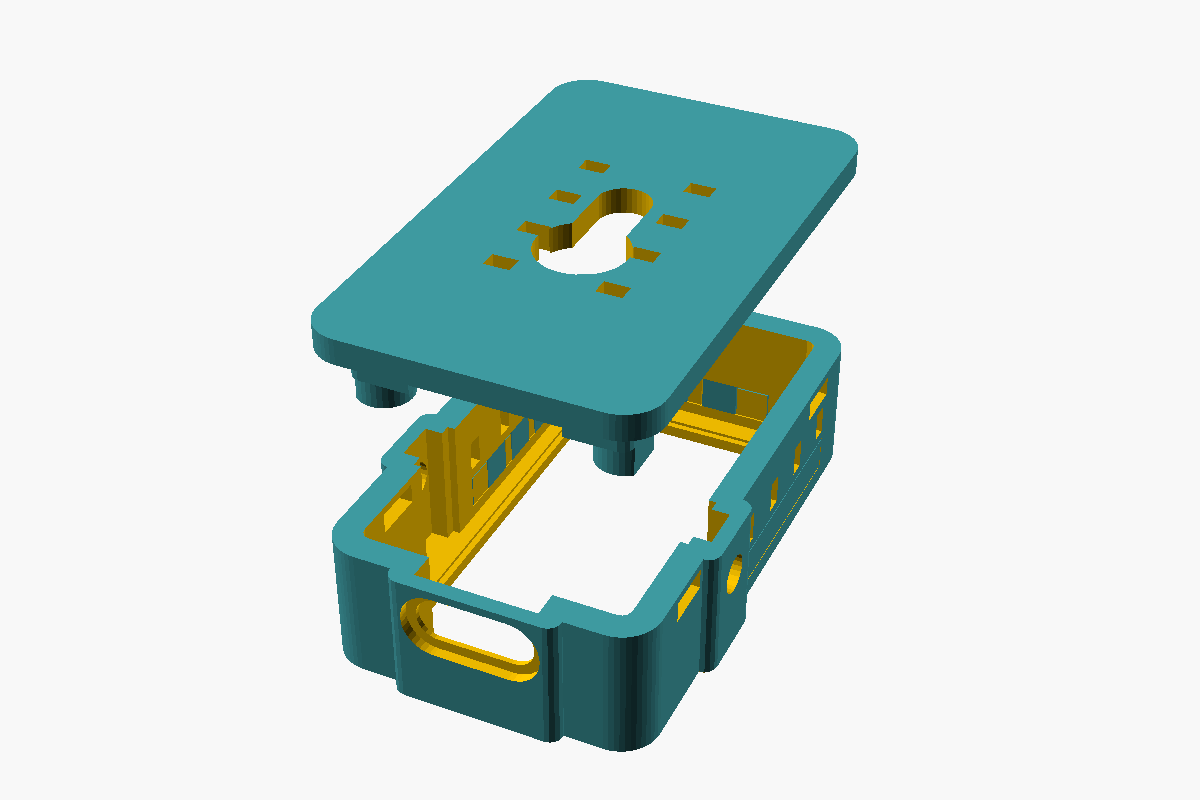
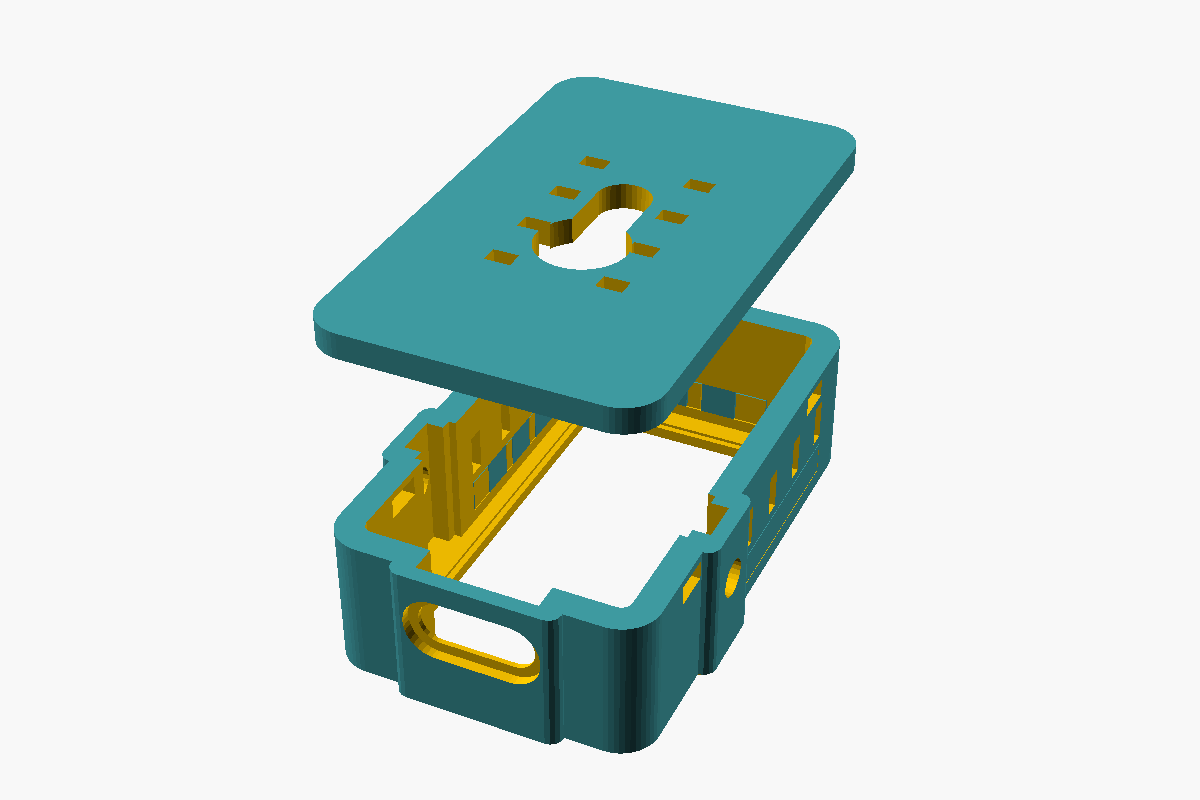
C3 pocket case: as-shipped "pillars" build + gen_3mf.py c3 plate
The board Waveshare actually ships carries the brass M2 corner pillars
with headers NOT soldered — a combination the case didn't have. New
headers="pillars" build (now the default): cavity deepens just enough
for the pillars (brass_h + 0.8), press bosses land on the flat pillar
tops, and the lid skirt is notched around each pillar.

Fit findings from the assembled checks against modeled pillars, all
fixed and now asserted:
- hole_ix_usb corrected 1.27 → 2.00 (the drawing's 17.78 is the header
  column span, 7 x 2.54, not the hole span; at 1.27 a Ø3.5 pillar
  would overhang the PCB edge into the bezel wall — asserted).
- snap nubs slimmed (4.0 → 3.2) and pulled in (13.0 → 12.4): at the
  old numbers a nub grazed the USB-end pillar's flank by 0.03 mm³.
- pillar notches hulled radially outward: a bare tangent circle left a
  ~0.3 mm crescent blade of skirt at each corner.
- USB skirt relief widened +1 mm/side to meet the notch circles: a
  0.05 mm whisker survived between the two cuts, found by slicing the
  STL (admesh saw a watertight, connected, fine-looking part).

gen_3mf.py grows a "c3" set: bezel + fused white band (band_clear=0)
and the yellow lid on one plate, slots 1 black / 2 yellow / 3 white
(the stick's palette convention), headers="pillars" pinned on every
volume, purge-tower zone reserved. c3_*.3mf gitignored like the other
packager outputs. render.sh covers all three builds; catalog JSON and
the committed preview regenerated.
[…]

diff --git a/docs/hardware/enclosure/gen_3mf.py b/docs/hardware/enclosure/gen_3mf.py
@@ -5,6 +5,7 @@
     python3 gen_3mf.py coupon     # just the color + fit coupon
     python3 gen_3mf.py frame      # the whole 7" case
     python3 gen_3mf.py stick      # the hallway stick: bezel + band, back + mark
+    python3 gen_3mf.py c3         # the C3 pocket case: bezel + band, yellow lid
 
 Renders the parts it needs with OpenSCAD, then writes a single object whose
 volumes are already registered to each other and already assigned to
@@ -137,6 +138,26 @@ STICK_BEZEL = [("body", "bezel", 1, STICK, {}),
 STICK_BACK = [("body", "fil_body", 1, STICK, {}),
               ("mark", "fil_accent", 2, STICK, {})]
 
+# ── The C3 pocket case (Waveshare ESP32-C3-LCD-1.47) ───────────────────────
+# Same palette convention as the stick — slot 1 black, slot 2 yellow, slot 3
+# white — so an operator who has printed one case loads the other without
+# re-learning the spools. Here the yellow is not an inlay but the whole lid:
+# a single-filament object that shares the plate so the case comes off in one
+# job. Only the bezel changes tool (band fuses in at band_clear = 0, the
+# co-print mode the .scad documents — same doctrine as the stick's band).
+#
+# headers="pillars" is pinned on every volume: the plate prints the case for
+# the board AS WAVESHARE SHIPS IT (brass corner pillars on, headers not
+# soldered). Pinned rather than inherited so the plate cannot silently change
+# meaning if the .scad's default ever moves. Stripped or soldered-header
+# boards: re-run with the define edited — the geometry is one word away, and
+# a 3MF that guessed would fit exactly one of the three boards silently.
+C3 = "canary_c3_lcd147.scad"
+C3_BEZEL = [("body", "bezel", 1, C3, {"headers": '"pillars"'}),
+            ("band", "light", 3, C3, {"headers": '"pillars"',
+                                      "band_clear": "0"})]
+C3_LID = [("lid", "lid", 2, C3, {"headers": '"pillars"'})]
+
 # A "set" is a list of OBJECTS. Each object is (name, volumes, plate center).
 # Volumes within one object are parts of it and stay registered to each other;
 # separate objects are independent and get their own place on the plate.
@@ -178,6 +199,11 @@ SETS = {
     # tower twice for no reason.
     "stick": [("stick bezel", STICK_BEZEL, (100, 150)),
               ("stick back",  STICK_BACK,  (100, 95))],
+    # Both halves of the C3 case on one plate, same argument as the stick:
+    # 25 x 41 mm parts, the pair is light, and a second job would build the
+    # purge tower twice for no reason.
+    "c3": [("c3 bezel", C3_BEZEL, (100, 150)),
+           ("c3 lid",   C3_LID,   (100, 95))],
     # THE TPU FITMENTS, two of each — a spare is worth more than a second job.
     # All six are ONE material, so this plate changes tool exactly never: no
     # purge tower, no tower zone, and every volume on slot 1. That is the whole
@@ -222,7 +248,7 @@ SETS = {
 # can never overwrite each other.
 OUTPUT = {"gauges": "lcd7_gauges", "color": "lcd7_color",
           "coupon": "lcd7_coupon", "qr": "lcd7_qr", "frame": "lcd7_frame",
-          "stick": "stick_case", "tpu": "lcd7_tpu"}
+          "stick": "stick_case", "c3": "c3_case", "tpu": "lcd7_tpu"}
 assert set(OUTPUT) == set(SETS), "every set needs an output name"
 # Volume tuples grew a source and a defines dict when a second case moved in
 # here, and a set written inline (rather than through one of the named lists
@@ -265,6 +291,9 @@ TOWER_ZONES = {
     # purges far more plastic than the part itself weighs, and cramping it is
     # the one way to make a 20 g print fail.
     "stick":  (140.0, 40.0, 250.0, 210.0),
+    # Same layout as the stick's plate, same reasoning: both objects sit left
+    # of x ≈ 115, so the tower gets the whole right half of the bed.
+    "c3":     (140.0, 40.0, 250.0, 210.0),
 }
 
 

diff --git a/docs/hardware/enclosure/README.md b/docs/hardware/enclosure/README.md
@@ -156,7 +156,7 @@ measurements welcome.
 | **Dashboard display case** — Waveshare ESP32-S3-Touch-LCD-4.3 (the [display research](../display_research.md) step-up dashboard): face-down bezel frame, vented screw-on back with keyholes + 75 mm M4 pair, free-standing 25° desk cradle. Panel dims are NOMINAL — measure yours | glass drops in, bezel lip 2.5 | <img src="./preview_dev_dash.png" width="230"> | [`canary_dash_display.scad`](./canary_dash_display.scad) |
 | **S3 hallway stick case** — Waveshare **ESP32-S3-LCD-1.47** (the USB-A STICK, not the C6 header board). The hallway nightlight body: plugs into a wall adapter, the 172x320 glass faces the corridor, and the WS2812 leaves through a **lit white seam** down both long walls. Screwless — four cantilever beams cut into the bezel wall, sized by strain (ε printed at render, PETG budget 1.8%), with ASYMMETRIC return angles: steep at the plug end so it never lets go, shallow at the far end so a thumb pops it for the microSD. The plug end is the whole design problem: the opening is a RECTANGLE (series-A is not a stadium — that is USB-C), the wall is thin and relieved so a recessed receptacle clears it, an assert fails the render if under 11 mm of insertion length survives, and the drop buttress reaches INWARD (outward would eat the very length it protects). The RGB does **not** fire backwards — Waveshare's "clear acrylic sandwich panel" is the tell, the LED glows out the edge gap between the LCD module and the PCB — so the light gets a **seam** along the side walls at exactly that band rather than a hole in the back, which frees the back for the mark. The seam is filled with **unfilled white PETG**, a light pipe rather than a slot, and its x span is derived from the cavity face and asserted: the first version stopped 0.65 mm short and would have shipped a light pipe with no light in it. The side elevation reads 1 mm black / 3 mm white / black. Ties are hidden ribs in the inner 1.2 mm of the wall, so the white line is unbroken and each side presses in as ONE strip. No vents — the case is 8.2 mm of measured stack in a 9.2 mm shell, and the thumb scoop to the USB opening is the airway. Black PETG, yellow mark, white band | screwless snap, thumb-release, 3 filaments, `gen_3mf.py stick` | <img src="./preview_dev_s3_147.png" width="230"> | [`canary_s3_lcd147.scad`](./canary_s3_lcd147.scad) |
 | **C6 display pocket case** — Waveshare **ESP32-C6-LCD-1.47** (portrait), both board builds: `headers="none"` (stripped: no headers, corner pillars removed) or `headers="male"` (as shipped: down-facing pin headers + brass M2 corner pillars — deeper cavity, press bosses land on the pillar tops). Face-down bezel over the active-area window, edge-captured board (no screws into the board), snap-in vented back, blind keyhole. The overhanging BOOT/RST buttons and the USB-C shell (both BACK-mounted — photo-verified) get full-depth insertion channels behind "ear"/"chin" wall bulges, and the USB-C port is a true stadium (full-round ends) sized shell + tolerance. `model="1.47"` is drawn from the Waveshare mechanical drawing; a `"1.69"` preset is parameterised. Heat-escape slots on the sides + a back grille | snap-fit, vented, 2 board builds | <img src="./preview_dev_c6_147.png" width="230"> | [`canary_c6_display.scad`](./canary_c6_display.scad) |
-| **C3 pocket display case** — Waveshare **ESP32-C3-LCD-1.47** (portrait; the C6 sibling's exact outline + panel, plus a TF slot and an RGB LED), both board builds: `headers="none"` (stripped) or `headers="male"` (down-facing headers + brass pillars — deeper case, press bosses land on the flat pillar tops). Three PETG spools: **black body, yellow snap lid, white light band** — the band does the job of Waveshare's clear-acrylic sandwich. Measured off the hardware: 1 mm behind the glass front, 2.8 mm tall — a U of light up both long walls and across the LED's end wall, tied by hidden inboard ribs so each wall presses in ONE unbroken strip, and the slot's inner face is derived from the cavity and asserted (the stick case's no-black-curtain lesson, kept). The glass is **located, not clamped**: bosses cut to the exact component stack (no preload), and the face touches the panel only on a land over the module border — the innermost 0.5 mm of lip is relieved 0.25 so the window rim never puts a contact line on the glass edge. Full-depth ear/chin insertion channels (BOOT/RST and the USB-C shell all overhang the PCB edges), true-stadium USB-C opening centered on the shell with an outer overmold relief, and a **keyed lid**: the board's M2 pillar pattern is asymmetric, so offered the wrong way round the skirt lands on the USB shell and refuses to close — the error is physical, not a rattle you discover later. Keyhole hangs it USB-down. microSD swaps with the lid off (the slot mouth faces down-board; no wall window could pass a card) | 3 filaments, snap lid, keyed, 2 board builds | <img src="./preview_dev_c3_147.png" width="230"> | [`canary_c3_lcd147.scad`](./canary_c3_lcd147.scad) |
+| **C3 pocket display case** — Waveshare **ESP32-C3-LCD-1.47** (portrait; the C6 sibling's exact outline + panel, plus a TF slot and an RGB LED), three board builds: `headers="pillars"` (the board **as Waveshare ships it** — brass corner pillars on, headers not soldered; the press bosses land on the flat pillar tops and the lid skirt is notched around each pillar), `"none"` (stripped, pillars unscrewed — the shallowest case), or `"male"` (down-facing headers + pillars — deepest, thin skirt clear of the pin rows). Three PETG spools: **black body, yellow snap lid, white light band** — the band does the job of Waveshare's clear-acrylic sandwich. Measured off the hardware: 1 mm behind the glass front, 2.8 mm tall — a U of light up both long walls and across the LED's end wall, tied by hidden inboard ribs so each wall presses in ONE unbroken strip, and the slot's inner face is derived from the cavity and asserted (the stick case's no-black-curtain lesson, kept). The glass is **located, not clamped**: bosses cut to the exact component stack (no preload), and the face touches the panel only on a land over the module border — the innermost 0.5 mm of lip is relieved 0.25 so the window rim never puts a contact line on the glass edge. Full-depth ear/chin insertion channels (BOOT/RST and the USB-C shell all overhang the PCB edges), true-stadium USB-C opening centered on the shell with an outer overmold relief, and a **keyed lid**: the board's M2 pillar pattern is asymmetric, so offered the wrong way round the skirt lands on the USB shell and refuses to close — the error is physical, not a rattle you discover later. Keyhole hangs it USB-down. microSD swaps with the lid off (the slot mouth faces down-board; no wall window could pass a card) | 3 filaments, snap lid, keyed, 3 board builds, `gen_3mf.py c3` | <img src="./preview_dev_c3_147.png" width="230"> | [`canary_c3_lcd147.scad`](./canary_c3_lcd147.scad) |
 | **7″ touch dashboard case** — Waveshare **ESP32-S3-Touch-LCD-7** (7″ 800×480 capacitive touch): the wall/desk slab. Face-down bezel retains the bonded glass over the active-area window; deep vented rear tray carries the PCB on molded M3 standoffs and screws to four **gusseted** outboard M3 corner ears (webbed into the shell — no thin necks). Real convection path (**bottom-wall intake → top-wall exhaust** — print in PETG/ASA, this panel runs hot; the two-part tray adds a ~41 cm² back grille, and the one-piece `frame`'s plate deliberately carries none — see the back-plate section), bottom connector channel + side USB/CAN/RS485/battery slots on the tray. The one-piece `frame` adds a bottom-centered **USB pass-through** plus a matching **side exit** on the microSD's wall (hang the case portrait with that wall down and the cable leaves out the bottom; the leashed blank fills whichever exit is idle) and three **TPU fitments**: a slit wire grommet (strain relief — tugs load the frame, not the board), a captive leashed press-through BOOT/RESET plug whose press towers reach the button caps at the board edge, and a peel-open SD cover that stays attached. Optional 20° desk **dock** for the frame (drop-in slot on tilted seat pads, self-centering keys into the frame's keying slots, landscape **and** portrait — portrait seats on well ribs — open well under the USB port + desk-level cable channel for the power lead, vented back fin, tip-checked both ways — `stand_gauge` proves the slot before the big print). **Print the `gauge` corner pair first** (~16.5 g vs ~158 g) — see the [P2S bring-up](./bambu_p2s_bringup.md#7--print-3--the-7-dashboard). Connector centers and `pcb_h` are NOMINAL — measure yours | glass drops in, lip 10.4, TPU-fitted ports | <img src="./preview_dev_lcd7.png" width="230"> | [`canary_s3_lcd7.scad`](./canary_s3_lcd7.scad) |
 | **1.69″ touch watch-display puck** — Waveshare **ESP32-S3-Touch-LCD-1.69** (rounded-square 240×280 capacitive-touch smartwatch board — S3, IMU, RTC, battery/charger). The bonded glass slab (41.13 × 33.13) overhangs the smaller PCB (37.12 × 29.83) by ~2 mm, so the face lip captures it — no screws (this board has no mount holes). Face-down bezel + snap-in vented back (skirt rides the overhang, 4 nubs, standoffs press the board forward, blind keyhole). USB-C (bottom) + PWR/BOOT/RST (top) + battery/RTC/pin slot (side); side heat slots + back grille; optional 22° cradle. Connector centers NOMINAL — measure yours | snap-fit, vented, edge-captured | <img src="./preview_dev_t169.png" width="230"> | [`canary_s3_touch169.scad`](./canary_s3_touch169.scad) |
 | **Vehicle mount kit** — VHB-taped dash plate with a 10° stud riser + an air-vent louver clip (extruded spring prongs snap over one blade). ⚠ cabins exceed +60 °C: USB power only, ASA, light colors | set `stud_gap` per case (36 = field) | <img src="./preview_dev_veh.png" width="230"> | [`canary_vehicle_mount.scad`](./canary_vehicle_mount.scad) |
